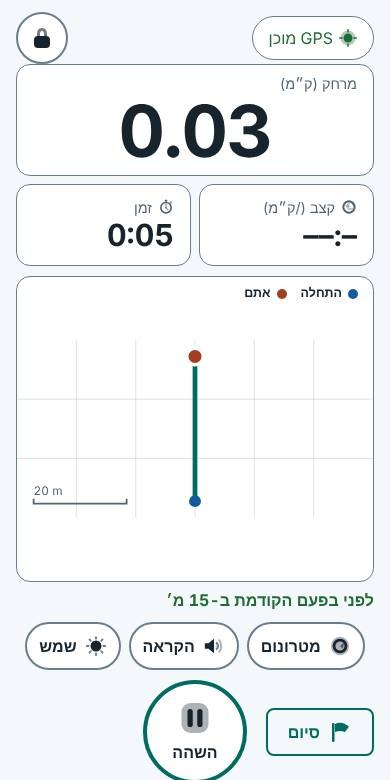
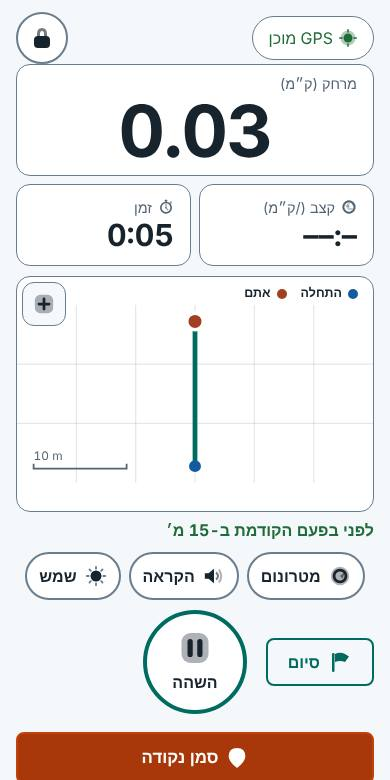
0.29.0: mark point, interactive maps everywhere (zoom, address search, measuring, km markers), turn-by-turn navigation with voice, written directions, progress bars, warm-up / cool-down exercises, effort chart with advice, broader global search, planner overflow fix
Claude-Session: https://claude.ai/code/session_015MgUfxYvuaf2H4JGRA2gxD

diff --git a/web/js/ui/search.js b/web/js/ui/search.js
@@ -12,6 +12,8 @@ import { GUIDE, stepKeys } from '../guide.js';
 import { buildFacts } from '../facts.js';
 import { fmtPaceUnit, fmtClock } from '../format.js';
 import { getNum } from '../store.js';
+import { IDS } from '../exercises.js';
+import { loadPlan, sessionTitle } from './plan.js';
 
 const both = (k) => `${STR.en[k]} ${STR.he[k]}`;
 // Settings and screens that can be found: [id, i18n key of the title, extra keywords (en + he), anchor].
@@ -21,9 +23,9 @@ const SETTINGS = [
   ['s-breath', 'breath', 'rhythm metronome breathing נשימה מטרונום קצב', 'settings'], ['s-vol', 'volume', 'sound click metronome עוצמה צליל', 'settings'], ['s-bpm', 'defaultBpm', 'cadence steps rhythm קצב צעדים', 'settings'],
   ['s-online', 'setOnline', 'weather forecast online location מזג אוויר תחזית מיקום', 'settings'], ['s-reco-notify', 'setRecoNotify', 'recommendation notification good time המלצה התראה זמן טוב', 'settings'], ['s-plan-remind', 'planRemind', 'training plan reminder workout תוכנית תזכורת אימון', 'settings'], ['s-handsfree', 'setHandsFree', 'hands free double tap volume keys pause ידיים חופשיות הקשה כפולה', 'settings'], ['s-countdown', 'setCountdown', 'countdown start 3 2 1 ספירה לאחור', 'settings'], ['s-challenge', 'chSet', 'challenge goal weekly workouts per week אתגר שבועי יעד אימונים', 'settings'], ['s-weekly', 'setWeekly', 'weekly summary sunday notification סיכום שבועי התראה', 'settings'], ['s-tiles', 'setTiles', 'map street tiles openstreetmap background מפה רחובות רקע', 'settings'], ['s-voice', 'setVoice', 'voice speak speech audio tts הקראה קול דיבור', 'settings'], ['s-backup', 'bkTitle', 'backup restore export import data file save גיבוי שחזור נתונים קובץ ייצוא', 'settings'], ['s-about', 'aboutTitle', 'update updates version download apk share app עדכון עדכונים גרסה הורדה שיתוף אפליקציה', 'settings'], ['s-cues', 'setCues', 'live indications cues record distance ghost אינדיקציות שיא מרחק', 'settings'], ['s-effort', 'effortAlerts', 'bar deviation alert סרגל מאמצים חריגה התראה', 'settings'], ['s-smart', 'remSmart', 'reminders nudge inactive תזכורות חכמות חוסר תנועה', 'settings'], ['s-rem', 'remTitle', 'reminder walk move תזכורת הליכה תנועה', 'settings'],
 ];
-const SCREENS = [['', 'dashboard', 'home main בית ראשי'], ['map', 'mapTitle', 'map measure distance מפה מדידה'], ['routeplan', 'planRouteTitle', 'plan route address תכנון מסלול כתובת'], ['history', 'history', 'workouts log אימונים יומן'], ['alerts', 'alertsTitle', 'notifications inbox התראות'], ['plan', 'planTitle', 'training plan program schedule goal 5k 10k תוכנית אימון לוח אימונים יעד'], ['routes', 'routesTitle', 'routes path track saved one-time מסלולים מסלול שמור חד פעמי'], ['reco', 'recoTitle', 'recommendations best time weather forecast המלצות זמן מועדף תחזית'], ['settings', 'settings', 'preferences הגדרות'], ['workout/run', 'startRun', 'record gps ריצה הקלטה'], ['workout/walk', 'startWalk', 'record gps הליכה הקלטה']];
-const TYPE_KEY = { action: 'typeAction', guide: 'typeGuide', fact: 'typeFact', setting: 'typeSetting', screen: 'typeScreen', widget: 'typeWidget', workout: 'typeWorkout', alert: 'typeAlert', route: 'routeOf' };
-const TYPE_ICON = { action: 'play', guide: 'help', fact: 'chart', setting: 'settings', screen: 'home', widget: 'chart', workout: 'run', alert: 'bell', route: 'route' };
+const SCREENS = [['weather', 'wxTitle', 'weather forecast hourly humidity rain temperature wind מזג אוויר תחזית לחות גשם'], ['exercises/warmup/run', 'exTitleWarmup', 'warm up exercises drills חימום תרגילים'], ['exercises/cooldown/run', 'exTitleCooldown', 'cool down stretch stretching שחרור מתיחות'], ['', 'dashboard', 'home main בית ראשי'], ['map', 'mapTitle', 'map measure distance מפה מדידה'], ['routeplan', 'planRouteTitle', 'plan route address תכנון מסלול כתובת'], ['history', 'history', 'workouts log אימונים יומן'], ['alerts', 'alertsTitle', 'notifications inbox התראות'], ['plan', 'planTitle', 'training plan program schedule goal 5k 10k תוכנית אימון לוח אימונים יעד'], ['routes', 'routesTitle', 'routes path track saved one-time מסלולים מסלול שמור חד פעמי'], ['reco', 'recoTitle', 'recommendations best time weather forecast המלצות זמן מועדף תחזית'], ['settings', 'settings', 'preferences הגדרות'], ['workout/run', 'startRun', 'record gps ריצה הקלטה'], ['workout/walk', 'startWalk', 'record gps הליכה הקלטה']];
+const TYPE_KEY = { exercise: 'typeExercise', place: 'typePlace', planned: 'typePlanned', action: 'typeAction', guide: 'typeGuide', fact: 'typeFact', setting: 'typeSetting', screen: 'typeScreen', widget: 'typeWidget', workout: 'typeWorkout', alert: 'typeAlert', route: 'routeOf' };
+const TYPE_ICON = { exercise: 'run', place: 'pin', planned: 'calendar', action: 'play', guide: 'help', fact: 'chart', setting: 'settings', screen: 'home', widget: 'chart', workout: 'run', alert: 'bell', route: 'route' };
 
 export async function buildItems() {
   const items = [];
@@ -34,8 +36,11 @@ export async function buildItems() {
   for (const g of GUIDE) { const [tk, xk] = stepKeys(g.id); items.push({ id: `guide:${g.id}`, type: 'guide', title: t(tk), text: `${both(tk)} ${both(xk)}`, href: `#/guide/${g.id}` }); }
   const rows = await listWorkouts({ points: false });
   items.push(...buildFacts(rows, Date.now(), { t, both, fmtKm, fmtDate, fmtPaceUnit, fmtClock, lang: getLang(), challengeN: getPref('challengeN', '3') }));
-  for (const w of rows.slice(0, 400)) items.push({ id: `wk:${w.startedAt}`, type: 'workout', title: `${t(w.kind)} · ${fmtKm(w.distanceM)} · ${fmtDate(w.startedAt, getLang())}`, text: workoutText(w), href: `#/w/${w.startedAt}`, ts: w.startedAt });
+  for (const w of rows.slice(0, 400)) items.push({ id: `wk:${w.startedAt}`, type: 'workout', title: `${t(w.kind)} · ${fmtKm(w.distanceM)} · ${fmtDate(w.startedAt, getLang())}`, text: `${workoutText(w)}${w.marks?.length ? ` ${both('marksTitle')}` : ''}`, href: `#/w/${w.startedAt}`, ts: w.startedAt });
   for (const r of await listRoutes()) items.push({ id: `rt:${r.id}`, type: 'route', title: `${r.name} · ${fmtKm(r.lengthM)}`, text: `${r.name} ${both('routesTitle')} ${r.oneTime ? both('routeOneTimeBadge') : ''}`, href: `#/r/${r.id}`, ts: r.createdAt });
+  for (const id of IDS) items.push({ id: `ex:${id}`, type: 'exercise', title: t(`ex_${id}`), text: `${both(`ex_${id}`)} ${both(`exh_${id}`)} ${id.startsWith('wu') ? both('exTitleWarmup') : both('exTitleCooldown')}`, href: `#/exercises/${id.startsWith('wu') ? 'warmup' : 'cooldown'}/run` });
+  const placeRaw = getPref('wxPlace', 'null'); try { const pl = JSON.parse(placeRaw); if (pl?.type === 'place' && pl.name) items.push({ id: 'place:wx', type: 'place', title: pl.name, text: `${pl.name} ${both('wxTitle')}`, href: '#/weather' }); } catch { /* none saved */ }
+  try { const plan = loadPlan(); for (const ss of (plan?.list || []).filter((x) => x.status === 'planned').slice(0, 120)) items.push({ id: `ps:${ss.id}`, type: 'planned', title: `${sessionTitle(ss)} · ${t(ss.kind)} · ${`${t('week')} ${ss.week + 1}`}`, text: `${both('planTitle')} ${both(ss.kind)}`, href: '#/plan' }); } catch { /* no plan */ }
   for (const a of alertStore.load()) items.push({ id: `al:${a.id}`, type: 'alert', title: t(a.title, a.params), text: `${both(a.title)} ${a.lines.map(both).join(' ')}`, href: '#/alerts', ts: a.ts });
   return items;
 }

diff --git a/web/sw.js b/web/sw.js
@@ -1,5 +1,5 @@
 // Offline-first service worker. VERSION is kept equal to version.json by scripts/bump-version.mjs (a unit test enforces it).
-const VERSION = '0.28.0';
+const VERSION = '0.29.0';
 const CACHE = `stepup-${VERSION}`;
 const SHELL = ['./', 'index.html', 'manifest.webmanifest', 'version.json', 'icon.svg', 'css/packs.css', 'css/app.css',
   'js/app.js', 'js/routePlan.js', 'js/planner.js', 'js/planApi.js', 'js/ui/mapScreen.js', 'js/ui/planner.js', 'js/theme-boot.js', 'js/util.js', 'js/i18n.js', 'js/native.js', 'js/icons.js', 'js/brand.js', 'js/brandData.js', 'js/iconData.js', 'js/geo.js', 'js/workout.js', 'js/metronome.js', 'js/cadence.js', 'js/audio.js', 'js/format.js', 'js/store.js', 'js/ui/home.js', 'js/plan.js', 'js/indicators.js', 'js/appVersion.js', 'js/art.js', 'js/voice.js', 'js/records.js', 'js/facts.js', 'js/actions.js', 'js/guide.js', 'js/strings08.js', 'js/strings09.js', 'js/strings10.js', 'js/strings11.js', 'js/appShare.js', 'js/changelog.js', 'js/ui/shareApp.js', 'js/ui/whatsnew.js', 'js/permissions.js', 'js/ui/permissions.js', 'js/characterData.js', 'js/puppetRig.js', 'js/ui/puppet.js', 'js/ui/character.js', 'art/character/walk.webp', 'art/character/run.webp', 'art/character/pose-idle.webp', 'art/character/pose-jump.webp', 'art/character/pose-cheer.webp', 'art/character/pose-wave.webp', 'art/character/pose-rest.webp', 'art/character/pose-stretch.webp', 'art/character/pose-medal.webp', 'art/character/pose-trophy.webp', 'art/character/pose-podium.webp', 'art/character/pose-point.webp', 'art/character/pose-think.webp', 'art/character/pose-sit.webp', 'art/character/pose-sleep.webp', 'art/character/pose-rain.webp', 'js/weatherAnim.js', 'js/weatherAnimData.js', 'js/ui/skynow.js', 'js/ui/hourdetail.js', 'js/ui/progress.js', 'js/ui/imap.js', 'js/ui/mapviewer.js', 'js/ui/marks.js', 'js/exercises.js', 'js/exerciseData.js', 'js/ui/exercises.js', 'js/strings12.js', 'js/ui/directions.js', 'js/nav.js', 'js/ui/weather.js', 'art/weather-anim/clear_day.webp', 'art/weather-anim/clear_night.webp', 'art/weather-anim/drizzle_day.webp', 'art/weather-anim/fog_day.webp', 'art/weather-anim/freezing_rain_day.webp', 'art/weather-anim/hail_day.webp', 'art/weather-anim/heavy_rain_day.webp', 'art/weather-anim/mostly_clear_day.webp', 'art/weather-anim/mostly_clear_night.webp', 'art/weather-anim/overcast_day.webp', 'art/weather-anim/partly_cloudy_day.webp', 'art/weather-anim/partly_cloudy_night.webp', 'art/weather-anim/rain_day.webp', 'art/weather-anim/snow_day.webp', 'art/weather-anim/thunderstorm_day.webp', 'js/ui/guide.js', 'art/workout/banner-afternoon-dark.svg', 'art/workout/banner-afternoon-light.svg', 'art/workout/banner-evening-dark.svg', 'art/workout/banner-evening-light.svg', 'art/workout/banner-morning-dark.svg', 'art/workout/banner-morning-light.svg', 'art/workout/banner-night-dark.svg', 'art/workout/banner-night-light.svg', 'art/workout/card-forest-dark.svg', 'art/workout/card-forest-light.svg', 'art/workout/card-ocean-dark.svg', 'art/workout/card-ocean-light.svg', 'art/workout/card-sunrise-dark.svg', 'art/workout/card-sunrise-light.svg', 'art/workout/count-1-dark.svg', 'art/workout/count-1-light.svg', 'art/workout/count-2-dark.svg', 'art/workout/count-2-light.svg', 'art/workout/count-3-dark.svg', 'art/workout/count-3-light.svg', 'art/workout/count-4-dark.svg', 'art/workout/count-4-light.svg', 'art/workout/count-5-dark.svg', 'art/workout/count-5-light.svg', 'art/workout/count-go-dark.svg', 'art/workout/count-go-light.svg', 'art/workout/hint-double-tap-dark.svg', 'art/workout/hint-double-tap-light.svg', 'art/workout/hint-volume-keys-dark.svg', 'art/workout/hint-volume-keys-light.svg', 'js/ui/workoutShare.js', 'js/shareCard.js', 'js/metrics.js', 'js/gpx.js', 'js/daypart.js', 'js/challenge.js', 'art/celebrate/avatar-frame-dark.svg', 'art/celebrate/avatar-frame-light.svg', 'art/celebrate/confetti-circle-dark.svg', 'art/celebrate/confetti-circle-light.svg', 'art/celebrate/confetti-curl-dark.svg', 'art/celebrate/confetti-curl-light.svg', 'art/celebrate/confetti-rectangle-dark.svg', 'art/celebrate/confetti-rectangle-light.svg', 'art/celebrate/confetti-star-dark.svg', 'art/celebrate/confetti-star-light.svg', 'art/celebrate/confetti-triangle-dark.svg', 'art/celebrate/confetti-triangle-light.svg', 'art/celebrate/distance-record-dark.svg', 'art/celebrate/distance-record-light.svg', 'art/celebrate/fastest-kilometre-dark.svg', 'art/celebrate/fastest-kilometre-light.svg', 'art/celebrate/forest-dark.svg', 'art/celebrate/forest-light.svg', 'art/celebrate/laurel-dark.svg', 'art/celebrate/laurel-light.svg', 'art/celebrate/longest-streak-dark.svg', 'art/celebrate/longest-streak-light.svg', 'art/celebrate/medal-dark.svg', 'art/celebrate/medal-light.svg', 'art/celebrate/most-workouts-week-dark.svg', 'art/celebrate/most-workouts-week-light.svg', 'art/celebrate/ocean-dark.svg', 'art/celebrate/ocean-light.svg', 'art/celebrate/pace-record-dark.svg', 'art/celebrate/pace-record-light.svg', 'art/celebrate/podium-floor-dark.svg', 'art/celebrate/podium-floor-light.svg', 'art/celebrate/podium-steps-dark.svg', 'art/celebrate/podium-steps-light.svg', 'art/celebrate/rays-dark.svg', 'art/celebrate/rays-light.svg', 'art/celebrate/ribbon-dark.svg', 'art/celebrate/ribbon-light.svg', 'art/celebrate/sunrise-dark.svg', 'art/celebrate/sunrise-light.svg', 'art/celebrate/trophy-dark.svg', 'art/celebrate/trophy-light.svg', 'js/podiumCard.js', 'js/ui/podium.js', 'js/mapView.js', 'js/ui/maptiles.js', 'js/backup.js', 'js/ui/backup.js', 'art/badges/almost-distance-dark.svg', 'art/badges/almost-distance-light.svg', 'art/badges/almost-record-dark.svg', 'art/badges/almost-record-light.svg', 'art/badges/faster-last-dark.svg', 'art/badges/faster-last-light.svg', 'art/badges/fastest-km-dark.svg', 'art/badges/fastest-km-light.svg', 'art/badges/new-record-dark.svg', 'art/badges/new-record-light.svg', 'art/badges/passed-distance-dark.svg', 'art/badges/passed-distance-light.svg', 'art/onboarding/caught-up-dark.svg', 'art/onboarding/caught-up-light.svg', 'art/onboarding/no-plan-dark.svg', 'art/onboarding/no-plan-light.svg', 'art/onboarding/no-routes-dark.svg', 'art/onboarding/no-routes-light.svg', 'art/onboarding/no-workouts-dark.svg', 'art/onboarding/no-workouts-light.svg', 'art/onboarding/offline-dark.svg', 'art/onboarding/offline-light.svg', 'art/onboarding/welcome-dark.svg', 'art/onboarding/welcome-light.svg', 'art/weather/clear-dark.svg', 'art/weather/clear-light.svg', 'art/weather/cloudy-dark.svg', 'art/weather/cloudy-light.svg', 'art/weather/cold-dark.svg', 'art/weather/cold-light.svg', 'art/weather/hot-dark.svg', 'art/weather/hot-light.svg', 'art/weather/rain-dark.svg', 'art/weather/rain-light.svg', 'art/weather/windy-dark.svg', 'art/weather/windy-light.svg', 'js/update.js', 'js/strings07.js', 'js/ui/about.js', 'js/strings06.js', 'js/ui/plan.js', 'js/schedule.js', 'js/widgetData.js', 'js/syncNative.js', 'js/strings05.js', 'js/route.js', 'js/routeReco.js', 'js/strings04.js', 'js/ui/routes.js', 'js/ui/livemap.js', 'js/forecast.js', 'js/reco.js', 'js/weatherApi.js', 'js/strings03.js', 'js/ui/reco.js', 'js/stats.js', 'js/steps.js', 'js/effort.js', 'js/reminders.js', 'js/alerts.js', 'js/search.js', 'js/charts.js', 'js/reminderLoop.js', 'js/strings02.js', 'js/ui/dashboard.js', 'js/ui/alerts.js', 'js/ui/search.js', 'js/ui/notify.js', 'js/ui/settings.js', 'js/ui/history.js', 'js/ui/workout.js', 'js/ui/rhythm.js',

diff --git a/web/js/strings12.js b/web/js/strings12.js
@@ -27,6 +27,11 @@ export const EN = {
   exTitleWarmup: 'Warm-up', exTitleCooldown: 'Cool-down and stretches', exIntroWarmup: 'A few minutes of easy movement before you start: it warms the muscles and lowers the risk of injury. General guidance, not medical advice.', exIntroCooldown: 'Walk easily, then stretch gently. Never stretch into pain. General guidance, not medical advice.',
   exTotal: '{min} min', exSeconds: '{s} s', exStart: 'Start guided session', exNext: 'Next', exPrev: 'Back', exDone: 'Well done!', exDoneText: 'The session is finished. Drink some water and enjoy the rest.', exOf: 'Exercise {n} of {total}', exBack: 'Back to the list', exPause: 'Pause', exResume: 'Resume', exPictureNote: 'The animated demonstrations are coming; until then the character shows the pose.',
   exWarmFirst: 'Warm up first', exWarmFirstHint: '{min} min of easy exercises', exCoolTitle: 'Cool down', exCoolText: 'Walk easily for about {min} min, then stretch.', exCoolStretch: 'Stretches', exCoolLink: 'Cool-down walk and stretches', exWarmLink: 'Warm-up exercises', exHubTitle: 'Warm-up and cool-down', exHubText: 'Guided exercises with the character: before a run or walk, and after it.', exKindRun: 'For a run', exKindWalk: 'For a walk',
+  effNextBand: 'Next week: {lo}-{hi} effort min', effAdviceTitle: 'Recommendation for next week', effAdviceNote: 'From your own last weeks. General guidance, not medical advice.',
+  effTrend_new: 'You are just starting: begin gently and keep it regular. The range is a first suggestion.', effTrend_build: 'You are training steadily: aim for the top of the range to grow by about 10 % a week.', effTrend_recover: 'Last week was well above your usual: take it easier this week so the body can adapt.',
+  effTrend_restart: 'You missed most of the last weeks: ease back in with short, comfortable sessions.', effTrend_hold: 'Three rising weeks in a row: hold the level this week to consolidate.',
+  effTipMoreDays: 'Aim for at least two sessions a week; regular beats long.', effTipSpread: 'One session is carrying the week: spread the effort over more days.', effTipEasyDay: 'You mostly run: keep one easy walk a week for recovery.', effTipLong: 'Your longest session can grow to about {min} min.',
+  actMark: 'Mark a point during a run or walk (totals so far on the map)', actNav: 'Voice navigation along a route (turn left, turn right)', actMapZoom: 'Zoom the map, measure a distance and find an address', actDirections: 'Written turn-by-turn directions of a route', actAutoStart: 'Start measuring when you start moving', actEffort: 'Weekly effort chart and recommendation for next week', actExercises: 'Warm-up and cool-down exercises', typeExercise: 'Exercise', typePlace: 'Place', typePlanned: 'Planned session',
   actWarmup: 'Warm-up exercises before a run or walk', actCooldown: 'Cool-down walk and stretches after a run',
 };
 export const HE = {
@@ -57,5 +62,10 @@ export const HE = {
   exTitleWarmup: 'חימום', exTitleCooldown: 'שחרור ומתיחות', exIntroWarmup: 'כמה דקות של תנועה קלה לפני שמתחילים: מחממת את השרירים ומפחיתה סיכון לפציעה. הכוונה כללית, לא ייעוץ רפואי.', exIntroCooldown: 'לכו בנחת ואז מתחו בעדינות. לעולם לא מתחים עד כאב. הכוונה כללית, לא ייעוץ רפואי.',
   exTotal: '{min} דק׳', exSeconds: '{s} שנ׳', exStart: 'התחלת סבב מודרך', exNext: 'הבא', exPrev: 'הקודם', exDone: 'כל הכבוד!', exDoneText: 'הסבב הסתיים. שתו מעט מים ותהנו מהמנוחה.', exOf: 'תרגיל {n} מתוך {total}', exBack: 'חזרה לרשימה', exPause: 'השהיה', exResume: 'המשך', exPictureNote: 'ההדגמות המונפשות בדרך; עד אז הדמות מציגה את התנוחה.',
   exWarmFirst: 'להתחמם קודם', exWarmFirstHint: '{min} דק׳ של תרגילים קלים', exCoolTitle: 'שחרור', exCoolText: 'לכו בנחת כ-{min} דק׳ ואז מתחו.', exCoolStretch: 'מתיחות', exCoolLink: 'הליכת שחרור ומתיחות', exWarmLink: 'תרגילי חימום', exHubTitle: 'חימום ושחרור', exHubText: 'תרגילים מודרכים עם הדמות: לפני ריצה או הליכה, ואחריהן.', exKindRun: 'לריצה', exKindWalk: 'להליכה',
+  effNextBand: 'שבוע הבא: {lo}-{hi} דקות מאמץ', effAdviceTitle: 'המלצה לשבוע הבא', effAdviceNote: 'לפי השבועות האחרונים שלכם. הכוונה כללית, לא ייעוץ רפואי.',
+  effTrend_new: 'אתם רק מתחילים: התחילו בעדינות ושמרו על קביעות. הטווח הוא הצעה ראשונה.', effTrend_build: 'אתם מתאמנים בקביעות: כוונו לראש הטווח כדי לגדול בכ-10% בשבוע.', effTrend_recover: 'השבוע שעבר היה הרבה מעל הרגיל: הקלו השבוע כדי שהגוף יסתגל.',
+  effTrend_restart: 'פספסתם את רוב השבועות האחרונים: חזרו בהדרגה עם אימונים קצרים ונוחים.', effTrend_hold: 'שלושה שבועות עולים ברצף: שמרו על הרמה השבוע כדי לבסס.',
+  effTipMoreDays: 'כוונו לפחות לשני אימונים בשבוע; קביעות עדיפה על אורך.', effTipSpread: 'אימון אחד נושא את השבוע: פזרו את המאמץ על יותר ימים.', effTipEasyDay: 'אתם בעיקר רצים: השאירו הליכה קלה אחת בשבוע להתאוששות.', effTipLong: 'האימון הארוך שלכם יכול לגדול לכ-{min} דק׳.',
+  actMark: 'סימון נקודה בזמן ריצה או הליכה (סכומים עד כה על המפה)', actNav: 'ניווט קולי לאורך מסלול (פנו שמאלה, פנו ימינה)', actMapZoom: 'זום במפה, מדידת מרחק וחיפוש כתובת', actDirections: 'הוראות הגעה כתובות של מסלול', actAutoStart: 'התחלת מדידה כשמתחילים לזוז', actEffort: 'גרף מאמץ שבועי והמלצה לשבוע הבא', actExercises: 'תרגילי חימום ושחרור', typeExercise: 'תרגיל', typePlace: 'מקום', typePlanned: 'אימון מתוכנן',
   actWarmup: 'תרגילי חימום לפני ריצה או הליכה', actCooldown: 'הליכת שחרור ומתיחות אחרי ריצה',
 };

diff --git a/web/js/actions.js b/web/js/actions.js
@@ -13,7 +13,7 @@ export const ACTIONS = [
   ['dashboard', 'actDashboard', 'home widgets customise reorder hide filter drill down דשבורד ווידג׳טים התאמה', '#/'], ['challenge', 'actChallenge', 'weekly challenge goal workouts per week medal אתגר שבועי', '#/d/challenge'],
   ['month', 'actMonth', 'monthly summary month compare סיכום חודשי', '#/d/month'], ['effort', 'actEffort', 'effort bar weekly minutes guideline age מד מאמץ דקות שבועי', '#/d/effort'], ['steps', 'actSteps', 'steps counter daily goal צעדים יעד יומי', '#/d/steps'],
   ['backup', 'actBackup', 'backup save export data file restore import גיבוי שמירה שחזור נתונים', '#/settings/s-backup'], ['updates', 'actUpdates', 'update version check new release עדכון גרסה בדיקת עדכונים', '#/settings/s-about'],
-  ['apk', 'actApk', 'android app apk download install אפליקציית אנדרואיד הורדה התקנה', '#/settings/s-about'], ['share-app', 'actShareApp', 'share app friend invite link whatsapp email שיתוף אפליקציה חבר קישור וואטסאפ מייל', '#/settings/s-about'], ['weather-detail', 'actWeather', 'weather forecast hourly humidity rain temperature wind place location route מזג אוויר תחזית לחות גשם טמפרטורה רוח מקום מיקום מסלול', '#/weather'], ['warmup', 'actWarmup', 'warm up warmup exercises before run walk drills stretch חימום תרגילים לפני ריצה הליכה', '#/exercises/warmup/run'], ['cooldown', 'actCooldown', 'cool down cooldown stretch stretching exercises after run walk שחרור מתיחות אחרי ריצה', '#/exercises/cooldown/run'], ['whats-new', 'actWhatsNew', 'what is new changes version update changelog מה חדש שינויים גרסה עדכון', '#/settings/s-about'],
+  ['apk', 'actApk', 'android app apk download install אפליקציית אנדרואיד הורדה התקנה', '#/settings/s-about'], ['share-app', 'actShareApp', 'share app friend invite link whatsapp email שיתוף אפליקציה חבר קישור וואטסאפ מייל', '#/settings/s-about'], ['weather-detail', 'actWeather', 'weather forecast hourly humidity rain temperature wind place location route מזג אוויר תחזית לחות גשם טמפרטורה רוח מקום מיקום מסלול', '#/weather'], ['mark-point', 'actMark', 'mark point waypoint lap split during workout pin note place סמן נקודה סימון הקפה בזמן אימון', '#/guide/tools'], ['navigation', 'actNav', 'navigation navigate directions turn left right voice follow route guidance ניווט הנחיה קולית פנה שמאלה ימינה מסלול', '#/routeplan'], ['map-zoom', 'actMapZoom', 'map zoom in out pinch measure distance address search find place km markers מפה זום מדידה כתובת חיפוש', '#/map'], ['directions', 'actDirections', 'written directions turns list route text steps הוראות הגעה כתובות פניות מסלול', '#/routes'], ['auto-start', 'actAutoStart', 'auto start detect movement begin measuring treadmill התחלה אוטומטית זיהוי תנועה הליכון', '#/settings/s-autostart'], ['effort-chart', 'actEffort', 'effort chart bar weekly recommendation next week training load מאמץ גרף שבועי המלצה', '#/d/effort'], ['exercises', 'actExercises', 'exercises stretching warm up cool down drills תרגילים מתיחות חימום שחרור', '#/exercises/warmup/run'], ['warmup', 'actWarmup', 'warm up warmup exercises before run walk drills stretch חימום תרגילים לפני ריצה הליכה', '#/exercises/warmup/run'], ['cooldown', 'actCooldown', 'cool down cooldown stretch stretching exercises after run walk שחרור מתיחות אחרי ריצה', '#/exercises/cooldown/run'], ['whats-new', 'actWhatsNew', 'what is new changes version update changelog מה חדש שינויים גרסה עדכון', '#/settings/s-about'],
   ['language', 'actLanguage', 'language hebrew english שפה עברית אנגלית', '#/settings/s-lang'], ['theme', 'actTheme', 'dark light theme colours look מראה כהה בהיר צבעים', '#/settings/s-theme'],
   ['profile', 'actProfile', 'age height weight profile גיל גובה משקל פרופיל', '#/settings/s-age'], ['reminders', 'actReminders', 'reminders walk movement break smart nudge תזכורות הפסקת תנועה', '#/settings/f-s-rem'],
   ['weekly-summary', 'actWeekly', 'sunday weekly summary notification סיכום שבועי יום ראשון', '#/settings/s-weekly'], ['street-map', 'actStreetMap', 'map tiles street openstreetmap מפת רחובות', '#/settings/s-tiles'],

diff --git a/web/js/ui/dashboard.js b/web/js/ui/dashboard.js
@@ -12,7 +12,7 @@ import { dayPart, todaySummary, leadsWithSummary } from '../daypart.js';
 import { challengeStatus, challengeWeeks, challengeStreak, challengeTarget } from '../challenge.js';
 import { monthSeries, monthToDate, filterWorkouts, totals, bucketize, streak, personalBests, paceByWeather, paceSec, weatherBucket, WEATHER_BUCKETS, DAY, dayStart } from '../stats.js';
 import { stepSeries, recommendedSteps } from '../steps.js';
-import { weeklyTarget, weekStatus, weeklySeries } from '../effort.js';
+import { weeklyTarget, weekStatus, weeklySeries, effortAdvice } from '../effort.js';
 import { barChart, lineChart } from '../charts.js';
 import { native } from '../native.js';
 import { workoutRow } from './home.js';
@@ -54,10 +54,16 @@ const row = (k, v) => h('div', { class: 'row' }, h('span', null, k), h('b', null
 const weekLabel = (ts) => new Date(ts).toLocaleDateString(getLang() === 'he' ? 'he-IL' : 'en-GB', { day: 'numeric', month: 'numeric' });
 const dayLabel = (ts) => String(new Date(ts).getDate());
 
+/** The recommendation for next week: the range in effort minutes, why, and tips from the person's own habit. */
+function adviceCard(adv) {
+  return h('div', { class: 'card advice', id: 'effort-advice', 'data-trend': adv.trend }, h('h2', null, t('effAdviceTitle')), h('b', { class: 'adv-band' }, t('effNextBand', { lo: adv.band[0], hi: adv.band[1] })), h('p', null, t(`effTrend_${adv.trend}`)),
+    adv.tips.length ? h('ul', null, adv.tips.map((x) => h('li', null, t(x.key, x.params)))) : null, h('small', { class: 'note' }, t('effAdviceNote')));
+}
 export const W = {
   effort: {
-    summary: (c) => h('div', null, stat(t('effortOf', { done: c.status.done, plan: c.plan.minutes }), t(c.status.status === 'ahead' ? 'effAhead' : c.status.status === 'on' ? 'effOn' : 'effBehind')), meter(c.status.share, t('effortOf', { done: c.status.done, plan: c.plan.minutes }))),
-    detail: (c) => [barChart(weeklySeries(c.all, c.now, 8).map((x, i, a) => ({ v: x.min, label: weekLabel(x.t), cls: i === a.length - 1 ? 'now' : '' })), { target: c.plan.minutes }),
+    summary: (c) => { const adv = effortAdvice(c.all, c.plan, c.now); return h('div', null, stat(t('effortOf', { done: c.status.done, plan: c.plan.minutes }), t(c.status.status === 'ahead' ? 'effAhead' : c.status.status === 'on' ? 'effOn' : 'effBehind')), meter(c.status.share, t('effortOf', { done: c.status.done, plan: c.plan.minutes })),
+      barChart(weeklySeries(c.all, c.now, 6).map((x, i, a) => ({ v: x.min, label: '', cls: i === a.length - 1 ? 'now' : '' })), { band: adv.band, h: 54 }), h('p', { class: 'note effadv' }, t('effNextBand', { lo: adv.band[0], hi: adv.band[1] }))); },
+    detail: (c) => [barChart(weeklySeries(c.all, c.now, 8).map((x, i, a) => ({ v: x.min, label: weekLabel(x.t), cls: i === a.length - 1 ? 'now' : '' })), { target: c.plan.minutes, band: effortAdvice(c.all, c.plan, c.now).band }), adviceCard(effortAdvice(c.all, c.plan, c.now)),
       h('div', { class: 'rows' }, row(t('thisWeek'), t('effortOf', { done: c.status.done, plan: c.plan.minutes })), row(t('effTypical', { n: c.plan.typical }), ''), c.plan.overridden ? row(t('barOverride', { n: c.plan.minutes }), '') : null),
       h('p', { class: 'note' }, t('effRange', { floor: c.plan.floor, ceiling: c.plan.ceiling })), h('p', { class: 'note' }, t('effHow', { pct: c.plan.raisePct }))],
   },

diff --git a/web/js/ui/workout.js b/web/js/ui/workout.js
@@ -100,7 +100,7 @@ export function renderWorkout(kind, go, routeId) {
     const cue = cueOf(st, navSaid, Date.now()); if (!cue) return;
     const text = t(`navSay_${cue.key}`, { d: cue.distM ? dText(cue.distM) : '', turn: cue.dir ? turnText(cue.dir).toLowerCase() : '' }); sr.textContent = text; if (navVoiceOn()) speak(text, getLang()); // the navigation voice has its own switch (the kilometre voice does not decide it)
   }
-  const lm = liveMap(), ghostEl = h('p', { class: 'ghost', hidden: true }), followEl = h('p', { class: 'note', hidden: true }), openMapBtn = h('button', { type: 'button', class: 'mapexpand', id: 'wk-openmap', 'aria-label': t('mvOpen'), onclick: () => import('./mapviewer.js').then((m) => m.openMapViewer({ title: t(kind), path: w ? w.points : [], route: follow ? follow.route.path : [], marks: w ? w.marks : [], live: () => (w ? w.points : []) })) }, icon('plus', 22)), mapBox = h('div', { class: 'mapbox' }, navEl, stopEl, lm.el, openMapBtn, followEl, ghostEl);
+  const lm = liveMap(), ghostEl = h('p', { class: 'ghost', hidden: true }), followEl = h('p', { class: 'note', hidden: true }), openMapBtn = h('button', { type: 'button', class: 'mapexpand', id: 'wk-openmap', 'aria-label': t('mvOpen'), onclick: () => import('./mapviewer.js').then((m) => m.openMapViewer({ title: t(kind), path: w ? w.points : [], route: follow ? follow.route.path : [], marks: w ? w.marks : [], live: () => (w ? w.points : []) })) }, icon('plus', 22)), mapBox = h('div', { class: 'mapbox' }, navEl, stopEl, h('div', { class: 'livewrap' }, lm.el, openMapBtn), followEl, ghostEl);
   let follow = null, ghost = null, ghostSide = ''; // follow = { route, best }; ghost = (moving ms) -> metres of the best attempt
   if (routeId) (async () => {
     const route = (await listRoutes()).find((r) => r.id === routeId); if (!route) return;
@@ -263,7 +263,7 @@ export function renderWorkout(kind, go, routeId) {
     const stats = h('div', { class: 'wk-stats' }, h('div', { class: 'metric hero' }, h('div', { class: 'cap' }, `${t('distance')} (${t('km')})`), vDist), h('div', { class: 'wk-two' }, cardA, cardB));
     setChildren(body, phase === 'ready' ? gpsCard : stats, waitEl, mapBox, rhythm.el,
       phase === 'confirm' ? confirmBar : h('div', { class: 'wk-tools' }, metroBtn, voiceBtn, sunBtn, navBtn),
-      phase === 'confirm' ? null : h('div', { class: 'controls' }, phase === 'ready' ? h('span') : finishBtn, mainBtn, phase === 'running' ? markBtn : null));
+      phase === 'confirm' ? null : h('div', { class: 'controls' }, phase === 'ready' ? h('span') : finishBtn, mainBtn), phase === 'running' ? markBtn : null);
   }
   /** After a run: how long to walk it off and a link to the stretches (after a long walk: the stretches). */
   function coolCard(x) {

diff --git a/web/js/effort.js b/web/js/effort.js
@@ -83,3 +83,28 @@ export function weekStatus(rows, age, now, override = null) {
   const share = done / plan.minutes;
   return { plan, done: Math.round(done), share, status: share >= 1 ? 'ahead' : done >= expected * 0.8 ? 'on' : 'behind' };
 }
+
+/**
+ * What to aim for next week, from how the person really trains (pure). Returns { trend, band: [lo, hi] (effort minutes), tips: [{ key, params? }] } where trend is one of
+ * 'new' (no history), 'restart' (missed most of the last weeks), 'recover' (last week far above the usual), 'hold' (three rising weeks: consolidate), 'build' (steady: the gentle +10 %).
+ * `plan` is weeklyTarget(...); `rows` the workouts; the tips look at the habit: sessions per week, one session carrying the week, runs without an easy day.
+ */
+export function effortAdvice(rows, plan, now) {
+  const weeks = weeklySeries(rows, now, 5).slice(0, 4), last = weeks[weeks.length - 1], active = weeks.filter((x) => x.min > 0), typical = plan.typical || 0, tips = [];
+  const r = (a, b) => [Math.max(0, Math.round(a)), Math.max(1, Math.round(b))];
+  let trend = 'build', band = r(Math.max(typical, plan.minutes * 0.9), plan.minutes * 1.1);
+  const lastThree = weeks.slice(-3);
+  if (!active.length) { trend = 'new'; band = r(plan.minutes * 0.8, plan.minutes * 1.2); }
+  else if (lastThree.filter((x) => x.min === 0).length >= 2) { trend = 'restart'; band = r(typical * 0.5, typical * 0.7); }
+  else if (typical > 0 && last.min > typical * 1.3) { trend = 'recover'; band = r(typical * 0.6, typical * 0.9); }
+  else if (lastThree.length === 3 && lastThree[1].min > lastThree[0].min * 1.1 && lastThree[2].min > lastThree[1].min * 1.1 && lastThree[0].min > 0) { trend = 'hold'; band = r(last.min * 0.95, last.min * 1.05); }
+  const recent = rows.filter((w) => w.startedAt >= weekStart(now) - 28 * 86400000 && w.startedAt < weekStart(now));
+  if (recent.length) {
+    const perWeek = recent.length / 4, runs = recent.filter((w) => w.kind === 'run'), longest = Math.max(...recent.map((w) => w.movingMs)), total = recent.reduce((s, w) => s + w.movingMs, 0);
+    if (perWeek < 2) tips.push({ key: 'effTipMoreDays' });
+    if (recent.length >= 4 && longest > total * 0.4) tips.push({ key: 'effTipSpread' });
+    if (runs.length >= 8 && runs.length / recent.length > 0.8) tips.push({ key: 'effTipEasyDay' });
+  }
+  if (trend === 'build' && plan.longestMin) tips.push({ key: 'effTipLong', params: { min: Math.round(plan.longestMin * 1.1) } });
+  return { trend, band, tips: tips.slice(0, 3) };
+}

diff --git a/web/js/changelog.js b/web/js/changelog.js
@@ -1,5 +1,8 @@
 // "What is new", in the app's two languages: user-facing bullets only, newest first. docs/CHANGELOG.md is the developer copy (a unit test keeps the two in step).
 export const CHANGES = [
+  { v: '0.29.0',
+    en: ['Mark point during a run or walk: an orange button saves where you are and the totals so far, and keeps measuring; the summary lists the points.', 'Open any map full screen: zoom, drag, find an address, measure a distance, distance markers every km.', 'Follow a route with turn-by-turn navigation: next turn, distance left, and spoken directions.', 'Written directions for planned routes, and progress bars while things load.', 'Warm-up, cool-down and stretching exercises with the character, plus a cool-down walk suggestion after a run.', 'The weekly effort chart shows a recommended range for next week.', 'Search also finds features, exercises, saved routes and planned sessions.'],
+    he: ['סימון נקודה בזמן ריצה או הליכה: כפתור כתום שומר איפה אתם והסכומים עד כה וממשיך למדוד; הסיכום מפרט את הנקודות.', 'פתיחת כל מפה במסך מלא: זום, גרירה, חיפוש כתובת, מדידת מרחק, וסימוני מרחק כל ק״מ.', 'ניווט מפנה לפנה במסלול: הפנייה הבאה, המרחק שנשאר והוראות קוליות.', 'הוראות הגעה כתובות למסלולים מתוכננים, וסרגלי התקדמות בזמן טעינה.', 'תרגילי חימום, שחרור ומתיחות עם הדמות, והמלצה להליכת שחרור אחרי ריצה.', 'גרף המאמץ השבועי מציג טווח מומלץ לשבוע הבא.', 'החיפוש מוצא גם יכולות, תרגילים, מסלולים שמורים ואימונים מתוכננים.'] },
   { v: '0.28.0',
     en: ['A Weather card on Home is always one tap away and shows the animated sky.', 'Tap a bar or a point on the weather charts (and the Recommendations chart) to see that hour: temperature, humidity, rain, wind and UV.'],
     he: ['כרטיס מזג אוויר במסך הבית, תמיד במרחק לחיצה, מציג את השמיים המונפשים.', 'לחצו על עמודה או נקודה בגרפי מזג האוויר (ובגרף ההמלצות) כדי לראות את השעה: טמפרטורה, לחות, גשם, רוח ו-UV.'] },

diff --git a/tests/unit/core.test.js b/tests/unit/core.test.js
@@ -24,3 +24,16 @@ test('gaugeDeg: needle from -120 (slow) to +120 (fast) for speed and pace, none 
   const slow = gaugeDeg('speed', run(500)), fast = gaugeDeg('speed', run(200)); assert.ok(slow >= -120 && fast <= 120); assert.ok(fast > slow, `${slow} ${fast}`);
   const pf = gaugeDeg('pace', run(200)), ps = gaugeDeg('pace', run(500)); assert.ok(pf > ps, 'faster pace = further right');
 });
+
+import { effortAdvice, weeklyTarget } from '../../web/js/effort.js';
+test('effort advice: new, build, recover after a big week, restart after a break, hold after three rising weeks; tips follow the habit', () => {
+  const now = new Date(2026, 6, 15, 12).getTime(), DAY = 86400000, wk = (n) => now - n * 7 * DAY;
+  const w = (daysAgo, min, kind = 'walk') => ({ kind, startedAt: now - daysAgo * DAY, movingMs: min * 60000, distanceM: kind === 'run' ? min * 160 : min * 80, endedAt: now - daysAgo * DAY + min * 60000 });
+  const advise = (rows) => effortAdvice(rows, weeklyTarget(rows, 35, now), now);
+  assert.equal(advise([]).trend, 'new'); assert.ok(advise([]).band[0] < advise([]).band[1]);
+  const steady = [8, 11, 15, 18, 22, 25, 29, 32].map((d) => w(d, 40)); const b = advise(steady); assert.ok(['build', 'hold', 'recover'].includes(b.trend)); assert.ok(b.band[0] >= 0 && b.band[1] > b.band[0]);
+  const big = [...[17, 19, 24, 26, 31, 33].map((d) => w(d, 30)), w(10, 150)]; assert.equal(advise(big).trend, 'recover', 'last week far above the usual');
+  const gap = [w(30, 40), w(31, 40), w(29, 40)]; assert.equal(advise(gap).trend, 'restart', 'only old workouts: the last weeks were missed');
+  const one = [w(9, 90), w(12, 20), w(20, 15), w(27, 15)]; const tips = advise(one).tips.map((x) => x.key); assert.ok(tips.includes('effTipMoreDays'), 'under two sessions a week');
+  assert.ok(advise(steady).tips.length <= 3);
+});

diff --git a/web/js/charts.js b/web/js/charts.js
@@ -21,11 +21,12 @@ function picking(svg, count, area, { onPick, labels, sel, title }) {
 }
 
 /** bars: [{ v, label, cls }]; opts: { target, w, h, onPick, labels, sel, title }. */
-export function barChart(bars, { target = 0, w = 300, h = 110, onPick, labels, sel, title } = {}) {
+export function barChart(bars, { target = 0, band = null, w = 300, h = 110, onPick, labels, sel, title } = {}) {
   const svg = mk('svg', { viewBox: `0 0 ${w} ${h}`, class: 'chart', 'aria-hidden': 'true', focusable: 'false' }), rects = [];
-  const max = Math.max(1, target, ...bars.map((b) => b.v)), pad = 14, bw = (w - pad * 2) / Math.max(1, bars.length), top = 8, base = h - 18;
+  const max = Math.max(1, target, ...(band || []), ...bars.map((b) => b.v)), pad = 14, bw = (w - pad * 2) / Math.max(1, bars.length), top = 8, base = h - 18;
   for (const f of [0.33, 0.66]) mk('line', { x1: pad, x2: w - pad, y1: (base - f * (base - top)).toFixed(1), y2: (base - f * (base - top)).toFixed(1), class: 'grid' }, svg); // faint guides (design kit: grid at 22 % outline)
   mk('line', { x1: pad, x2: w - pad, y1: base, y2: base, class: 'axis' }, svg);
+  if (band) { const y0 = base - (band[1] / max) * (base - top), y1 = base - (band[0] / max) * (base - top); mk('rect', { x: pad, y: y0.toFixed(1), width: w - pad * 2, height: Math.max(2, y1 - y0).toFixed(1), class: 'band' }, svg); } // the recommended range
   bars.forEach((b, i) => {
     const bh = (b.v / max) * (base - top), x = pad + i * bw + bw * 0.15;
     rects.push(mk('rect', { x: x.toFixed(1), y: (base - bh).toFixed(1), width: (bw * 0.7).toFixed(1), height: Math.max(b.v > 0 ? 2 : 0, bh).toFixed(1), rx: 5, class: `bar ${b.cls || ''}`, idx: i }, svg));

diff --git a/web/css/app.css b/web/css/app.css
@@ -347,3 +347,11 @@ html[data-calm="1"] .pbar.indeterminate .pbtrack i, html[data-calm="1"] .pbar .p
 /* exercises */
 .exlist { list-style: none; margin: 10px 0 0; padding: 0; display: grid; gap: 10px; } .exitem { display: flex; gap: 12px; align-items: center; } .exitem small { color: var(--muted); display: block; } .exitem p { margin: 4px 0 0; }
 .exnow { display: grid; justify-items: center; text-align: center; gap: 6px; } .excount { font-size: 3rem; line-height: 1; } .coolcard { margin-block: 10px; } .exhub { margin-block: 10px; } .exhub .maptools { margin-block-end: 0; }
+
+.chart .band { fill: color-mix(in srgb, var(--good, #2b7a3b) 22%, transparent); stroke: color-mix(in srgb, var(--good, #2b7a3b) 55%, transparent); stroke-width: 1; stroke-dasharray: 4 3; }
+.advice { display: grid; gap: 6px; } .advice ul { margin: 0; padding-inline-start: 20px; } .advice .adv-band { font-size: 1.3rem; font-weight: 800; }
+
+.workout .btn.mark { inline-size: 100%; justify-content: center; min-block-size: 52px; margin-block-start: 8px; display: inline-flex; align-items: center; gap: 8px; font-size: 1.05rem; }
+.dirs > summary { min-block-size: 44px; display: flex; align-items: center; cursor: pointer; font-weight: 700; }
+
+.livewrap { position: relative; }

diff --git a/web/js/appVersion.js b/web/js/appVersion.js
@@ -1,2 +1,2 @@
 // The version of the code that is running (kept equal to version.json by scripts/bump-version.mjs; a unit test enforces it).
-export const APP_VERSION = '0.28.0';
+export const APP_VERSION = '0.29.0';
